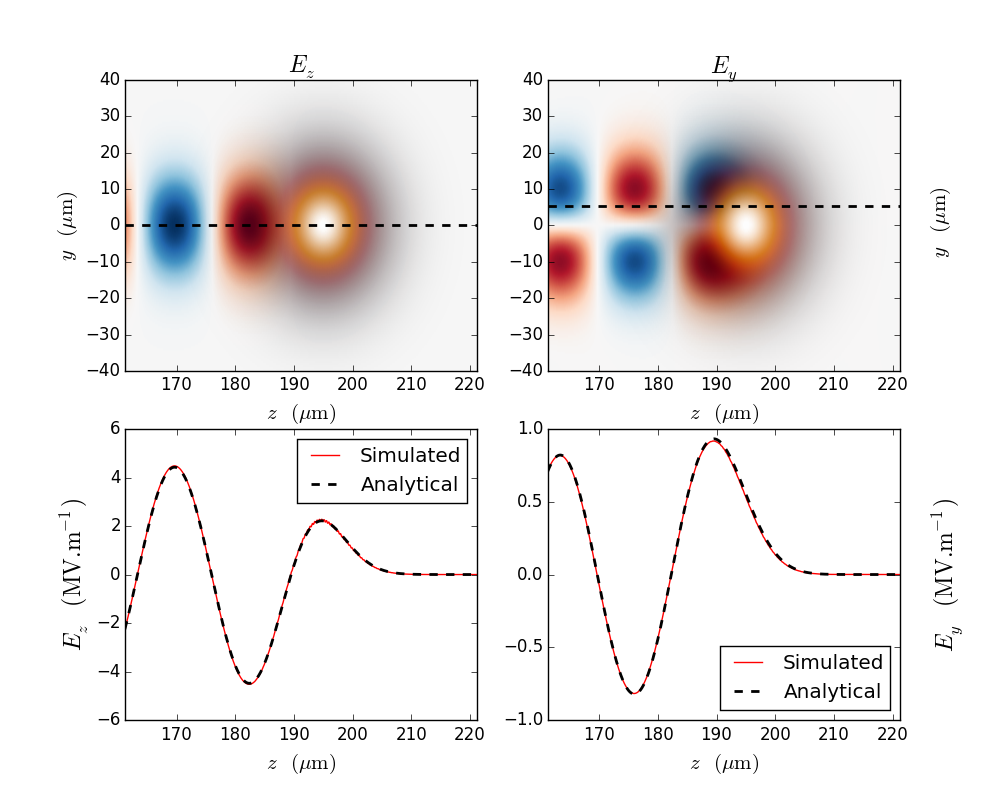
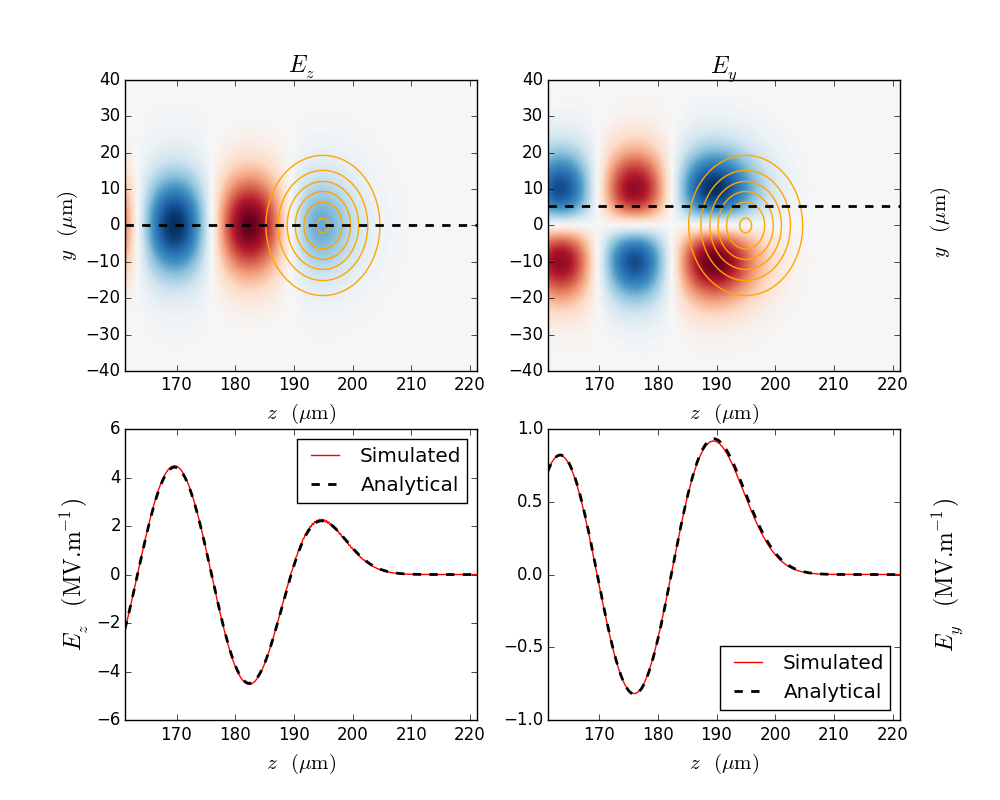
Submission to Elsevier

Changed region(s): [[0.217, 0.125, 0.434, 0.4375], [0.651, 0.125, 0.837, 0.4375]]

diff --git a/docs/article/Spectral_circ.tex b/docs/article/Spectral_circ.tex
@@ -51,7 +51,7 @@
 \ead{rlehe@lbl.gov}         
 \author[label2]{Manuel {Kirchen}}
 \author[label3]{Igor A. {Andriyash}}
-\author[label4]{Brendan B. {Godfrey}}
+\author[label1,label4]{Brendan B. {Godfrey}}
 \author[label1]{Jean-Luc {Vay}}
 
 \address[label1]{Lawrence Berkeley National Laboratory, Berkeley, CA 94720, USA}
@@ -110,7 +110,7 @@ computationally expensive;
   resolution-dependent velocity. In the above-mentioned cases, 
 numerical dispersion can lead to substantial numerical artifacts
 which can mask or disrupt the physics at stake in the simulation. This
-includes for instance numerical Cherenkov effects in general
+includes, for instance, numerical Cherenkov effects in general
 \citep{GodfreyJCP1974}, but also more specific artifacts, such as
 e.g. the erroneous prediction of the dephasing length in
 laser-wakefield acceleration \citep{CowanPRSTAB2013}.
@@ -120,7 +120,7 @@ Yet several modifications can be made to the PIC algorithm, in order
 to mitigate these difficulties and increase the speed and
 accuracy of the simulations in these physical situations: 
 \begin{itemize}
-\item one of these modifications is the development of cylindrically-symmetric
+\item one of these modifications is the development of cylindrical 
 PIC algorithms with azimuthal Fourier decomposition \citep{godfrey1985iprop,Lifschitz,Davidson} 
 of the electromagnetic field components 
 (sometimes referred to as \emph{quasi-3D} algorithms, or as
@@ -153,12 +153,12 @@ that spectral PIC algorithms have better stability properties when
 performing PIC simulations in
 a Lorentz-boosted frame \citep{VayPRL2007,MartinsNatPhys2010,VayJCP2011}. 
 These stability properties are very
-promising since boosted-frame simulations can be faster than 
+promising, since boosted-frame simulations can be faster than 
 their laboratory-frame counterparts by several orders of magnitude \citep{VayPRL2007}.
 \end{itemize}
 
 Even though these two improvements are both very valuable, they cannot be
-combined with one another in their present
+combined with each other in their present
 formulation. Fundamentally, this is because the \emph{quasi-cylindrical} algorithm uses a
 cylindrical system of coordinates, whereas most spectral algorithms
 (and in particular the PSATD algorithms)
@@ -350,7 +350,7 @@ that the current satisfies $\partial_t
 \partial_t \spectral{\rho}_m + k_\perp (\spectral{J}_{+,m} -\spectral{J}_{-,m}) + ik_z
 \spectral{J}_{z,m} = 0
 \end{equation} 
-\noindent (This can be checked for instance by differentiating
+\noindent (This can be checked, for instance, by differentiating
 \cref{eq:SpectCons} in time and by using
 \cref{eq:CircMaxwellp,eq:CircMaxwellm,eq:CircMaxwellz} to re-express the
 time derivatives.)
@@ -466,7 +466,7 @@ The above equations show that the transformation from the intermediate
 grid ($\hat{F}_{u,m}$) to the spectral grid ($\spectral{F}_{u,m}$) is
 the combination of a Fourier transform (in $z$) and a Hankel transform
 (in $r$). The Fourier transform in $z$ can be discretized through a Fast Fourier
-Transform (FFT) algorithm, which imposes to use an evenly-spaced grid
+Transform (FFT) algorithm, which requires an evenly-spaced grid
 in $z$ and in $k_z$. On the other hand, there is more freedom of
 choice for the Discrete Hankel Transform (DHT), and the implementation that
 we chose is described in the next section
@@ -734,12 +734,12 @@ Here, we choose to discretize the algorithm on an evenly-spaced grid in $r$
 r_j = \Delta r \left( j+\frac{1}{2} \right) \qquad  j \in \{0, ...,
 N_r-1 \} \qquad \mathrm{where} \quad \Delta r = \frac{r_{max}}{N_r} 
 \end{equation}
-but on an irregular grid in $k_\perp$ (for the spectral grid). This is because the authorized
+but on an irregular grid in $k_\perp$ (for the spectral grid). This is because the allowed
 values of $k_\perp$ are determined by the boundary conditions, in the same way that
 the periodic boundaries in a Cartesian code impose the use of
 evenly-spaced $k$. Here, for simplicity, we impose that the
 longitudinal fields be $0$ at $r_{max}$ (i.e. $E_z(r_{max}, z) = 0$,
-$B_z(r_{max}, z) = 0$). In this case, it turns out that the set of authorized
+$B_z(r_{max}, z) = 0$). In this case, it turns out that the set of allowed
 $k_\perp$ depends on the azimuthal mode $m$ and reads
 \begin{equation}  
 k^m_{\perp,j} = \frac{\alpha_j^m}{r_{max}} \qquad j \in \{0, ...,
@@ -793,7 +793,7 @@ which is typically used in the transverse plane of a spectral 3D Cartesian code.
 \subsection{Field gathering}
 \label{sec:gathering}
 
-In the following, we describe the 4 successive steps of a PIC cycle
+In the following, we describe the four successive steps of a PIC cycle
 with our algorithm in detail, starting with the field gathering.
 When gathering the fields from the intermediate grid to the
 macroparticles (see \cref{fig:GlobalScheme}),
@@ -808,7 +808,8 @@ F_u(\vec{r}_k) &=  \sum_{p,q} S_{z,p}(z_k)S_{r,q}(r_k) \left[ \sum_{m=-N_m}^{N_m
 where $F$ is either $E$ or $B$, $u$ is either $r$, $\theta$ or $z$, $k$ is the index of the macroparticle,
 and $p$ and $q$ are the indices of the two nearest cells in $z$ and
 $r$ respectively. $N_m$ is the total number
-of azimuthal modes used. Notice that, in \cref{eq:gathering}, we used the fact that
+of azimuthal modes used, and $\Re$ denotes the real part of a complex
+quantity. Notice that, in \cref{eq:gathering}, we used the fact that
 $\hat{F}_{u,-m}(z,r) = \hat{F}^*_{u,m}(z,r) $, which can be
 inferred from \cref{eq:IntermFwTrans}. Incidentally,
 \cref{eq:gathering} shows that only the modes with $m\geq 0$ need to be taken into account in the code, as they are sufficient to retrieve the force on the macroparticles.
@@ -855,7 +856,7 @@ $B_z$ that were gathered at the positions of each macroparticle.
 We then advance the equations of motion
 \begin{equation} \frac{d\vec{p}}{dt} = q\vec{E} + q\vec{v}\times \vec{B} \qquad
 \frac{d\vec{x}}{dt} = \frac{\vec{p}}{\gamma \,m} \end{equation}
-\noindent  in standard 3D Cartesian coordinates, by using the leap-frog pusher described in \citep{VayPoP2008}.
+\noindent  in standard 3D Cartesian coordinates by using the leap-frog pusher described in \citep{VayPoP2008}.
 
 \subsection{Current deposition}
 \label{sec:current-deposition}
@@ -896,7 +897,7 @@ reproduce the Esirkepov charge-conserving current deposition
 \citep{Esirkepov}, and instead use a
 simple direct current deposition. It is well-known that this simple deposition does not necessarily
 satisfy the relation $\partial_t\rho + \vec{\nabla}\cdot\vec{j} =
-0$, but that this can be corrected for, by slightly modifying the
+0$, but that this can be corrected, by slightly modifying the
 currents without modifying their curl (e.g. \cite{VayJCP2013}):
 \begin{equation} \vec{j}' = \vec{j} - \vec{\nabla} G \end{equation}
 where $G$ satisfies the Poisson-like equation
@@ -1067,7 +1068,7 @@ To assess the capacities of the finite-difference and
 spectral quasi-cylindrical code in this regard, \cref{fig:Vacuum_vg} displays the relative
 difference in group velocity, as measured in the
 simulations. As can be expected, in the
-finite-difference simulations, the
+finite-difference simulations the
 group velocity of the laser depends on the resolution, due to numerical
 dispersion. 
 Moreover, this group velocity is considerably different than the analytical
@@ -1188,8 +1189,9 @@ a_\ell^2(z', t) e^{-r^2/w_0^2} \sin[k_p(z-z')]dz' \label{eq:analytical-Ey}
 Here, the longitudinal laser envelope $a_\ell$ was extracted directly from the
 simulation, and the above analytical integrals where carried out
 numerically. The resulting predicted fields $E_z$ and $E_y$ are plotted in dashed lines
-in the left and right lower panels of \cref{fig:Linear_wkfld}
-respectively. These predicted curves are compared with
+in the left and right lower panels respectively of
+\cref{fig:Linear_wkfld}. 
+These predicted curves are compared with
 the fields $E_z$ and $E_y$ extracted directly from the simulation (red
 lines in the lower panels). These fields from the simulation are also
 displayed as colormaps in the upper panels of \cref{fig:Linear_wkfld},
@@ -1201,7 +1203,7 @@ lower panels are plotted (dashed line).
 \includegraphics[width=\textwidth]{Linear_wkfld.png}
 \caption{\label{fig:Linear_wkfld}Upper panels: Colormaps of the fields $E_z$ and
   $E_y$ as extracted from the simulation (blue and red), along with
-  the laser envelope (orange hues). (The laser propagates to the
+  the laser envelope (orange contour lines). (The laser propagates to the
   right and is polarized along $x$.) The dashed lines indicate the
   position where the curves of the lower panels have been extracted. 
 Lower panels: profile of the fields at a given radial
@@ -1221,7 +1223,7 @@ are typically very noisy.
 \label{sec:advantages}
 
 Since finite-difference algorithms and spectral algorithms are
-considerably different, each of them have their own advantages and
+considerably different, each of them has its own advantages and
 shortcomings. 
 
 For instance, spectral algorithms -- including the one described here
@@ -1244,7 +1246,7 @@ may be difficult to discern, especially in the cases where there is no
 analytical formula for this length. As shown in
 \cref{sec:linear_plasma}, the algorithm described here would not suffer
 from this effect, as it is free of numerical dispersion. Similarly, in
-this section, we describe two other typical situations in which our spectral
+this section we describe two other typical situations in which our spectral
 quasi-cylindrical algorithm avoids important artifacts, that would otherwise
 arise in a finite-difference code. 
 
@@ -1316,9 +1318,9 @@ in the top panels, the global aspect of the bubble and of the injected
 bunch is similar in both simulations. In particular, the injected
 charge was found to be almost the same (766~pC with the
 finite-difference algorithm and 750~pC with the spectral
-algorithm). However, when having a closer look at the bunch in the
+algorithm). However, a closer look at the bunch in the
 finite-difference algorithm (see the middle left panel in
-\cref{fig:Cherenkov}), it appears that the bunch emits a
+\cref{fig:Cherenkov}) reveals that the bunch emits a
 high-frequency radiation. This radiation seems to be due to the
 zero-order numerical Cherenkov effect -- an interpretation which is confirmed by
 the observation of the corresponding characteristic double-parabola in
@@ -1341,7 +1343,7 @@ numerical Cherenkov effect.
 \includegraphics[width=\textwidth]{Cherenkov.png}
 \caption{\label{fig:Cherenkov}Snapshot of a finite-difference
   simulation (left) and of a spectral simulation (right), at a similar
-  physical time. Upper panels: Aspect of the bubble in real space ; 
+  physical time. Upper panels: Representation of the bubble in real space; 
 the superimposed blue shades represent the electron
   density. Middle panels: More detailed view of the region surrounding the
   bunch. Lower panels: two-dimensional Fourier transform of the
@@ -1396,7 +1398,7 @@ represents a relativistic electron having an initial Lorentz factor
 $\gamma_e = 25$. For comparison, the simulation was run, again, with both our spectral
 quasi-cylindrical algorithm and the finite-difference
 quasi-cylindrical algorithm of \textsc{Warp}. In order to study
-numerical convergence, the simulations were run with a varying
+numerical convergence, the simulations were run with various
 longitudinal resolution $\Delta z$, but with a fixed cell aspect ratio
 $\Delta r = 10\Delta z$. The timestep was again $c\Delta t=
 1/\sqrt{1/\Delta z^2 + 2/\Delta r^2}$ for the finite-difference
@@ -1436,7 +1438,7 @@ dephases with the laser.
 
 Keeping in mind that here initially $a_0=0.2$, one can observe on
 \cref{fig:Laser} that the oscillation amplitude of $p_x/m_e c$
-is much higher than analytically predicted, in the finite-difference
+is much higher than analytically predicted in the finite-difference
 simulation. In addition, these oscillations strongly depend on the
 resolution of the simulation, which confirms their spurious nature. These
 observations are consistent with those of \citep{LehePRSTAB2014}, and
@@ -1461,7 +1463,7 @@ $\vec{B}$ fields are not staggered in time, in this algorithm.
   laser pulse having $a_0 = 0.2$ (see \cref{fig:Schematic_laser} for a
   schematic representation of the situation simulated). The left and
   right plots correspond to the finite-difference and spectral
-  algorithm respectively (note the different vertical scales on the two
+  algorithms respectively (note the different vertical scales on the two
   plots). The colored curves correspond to different resolutions for the simulations.}
 \end{figure}
 
@@ -1476,7 +1478,7 @@ time and memory than a full 3D algorithm. In addition, the fact
 that it is spectral (and uses the PSATD algorithm) prevents a certain number of
 artifacts, that are usually present in a finite-difference algorithm.
 
-This second aspect was tested in details in this article, through
+This second aspect was tested in detail in this article, through
 several benchmarks. By comparing simulations with analytical results, 
 we showed that our spectral quasi-cylindrical code is free of
 numerical dispersion, that it does not exhibit zero-order numerical Cherenkov
@@ -1511,11 +1513,11 @@ This document was prepared as an account of work sponsored in part by the United
 \label{sec:CircTrans}
 
 In order to derive the representation
-\cref{eq:CircBwTransz,eq:CircBwTransr,eq:CircBwTranst} we have to
+\cref{eq:CircBwTransz,eq:CircBwTransr,eq:CircBwTranst}, we have to
 distinguish the Cartesian components (e.g. $E_x$, $E_y$, $E_z$, $B_x$,
-$B_y$, $B_z$) which are well-defined everywhere in space and thus have a regular
+$B_y$, $B_z$), which are well-defined everywhere in space and thus have a regular
 Fourier representation, from the cylindrical components (e.g. $E_r$,
-$E_\theta$, $B_r$, $B_\theta$) which are ill-defined at $r=0$. (For instance, for a
+$E_\theta$, $B_r$, $B_\theta$), which are ill-defined at $r=0$. (For instance, for a
 field of the form $\vec{E} = E_0 \vec{e}_x$, the expression of $E_r$
 is $E_r = E_0 \cos(\theta)$, which ill-defined at $r=0$, as $\theta$
 itself is ill-defined at this position.)
@@ -1571,7 +1573,7 @@ denote generally by $F_r$. We have :
 \begin{equation} F_r = \cos(\theta) F_x + \sin(\theta) F_y 
 = \frac{F_x - iF_y}{2}e^{i\theta} + \frac{F_x +
   iF_y}{2}e^{-i\theta} \end{equation} 
-Using \cref{eq:CircBwTransu}, this leads to
+Using \cref{eq:CircBwTransu} leads to
 \begin{align} 
 F_r =   \frac{1}{(2\pi)^2}\sum_{m=-\infty}^{\infty} \Integ{k_z}\,\RInteg{k_\perp }\;
 \left(  J_m(k_\perp r) \frac{\spectral{F}_{x,m} -
@@ -1683,8 +1685,8 @@ We can now use the relations $\frac{m}{k_\perp r} J_m(k_\perp r) +
 \end{align}
 \end{subequations}
 Each equation of the above system contains Bessel functions of only one
-given order (either $m+1$, $m-1$ or $m$). This allows to separate the
-different $k_\perp $ components, since the functions $J_n(k_\perp r)$, for a
+given order ($m+1$, $m-1$ or $m$). This allows the
+different $k_\perp $ components to be separated, since the functions $J_n(k_\perp r)$, for a
 fixed $n$ and different values of $k_\perp $, form a basis of the set of real functions:
 \begin{subequations}
 \begin{align}
@@ -1904,8 +1906,8 @@ N_r-1 \} \end{equation}
 Hankel mode proportional to $J_{n}(k^m_0 r)$ to be 0 in the
 simulation. (For $n\neq 0$ and $m \neq 0$, $J_n(k^m_0 r)=0$ for any
 $r$, so that the amplitude of the corresponding mode has no physical
-meaning whatsoever.) This allows to determine the matrix
-$M_{n,m}$ entirely. In addition, to obtain $M'_{n,m}$, we impose
+meaning whatsoever.) This allows the matrix
+$M_{n,m}$ to be entirely determined. In addition, to obtain $M'_{n,m}$, we impose
 $ (M'_{n,m})_{p,\ell}=\frac{ J_n(k^m_{\perp,\ell}\,r_p) } { \pi\,
   r_{max}^2\,[ J_{n+\delta_{n,m}}(\alpha_\ell^m)]^2  }$ for any $\ell \in \{1,
 ..., N_r-1 \}$ (as in the case $n=0$ or $m=0$), but also $(M'_{n,m})_{p,\ell}=0$ for
